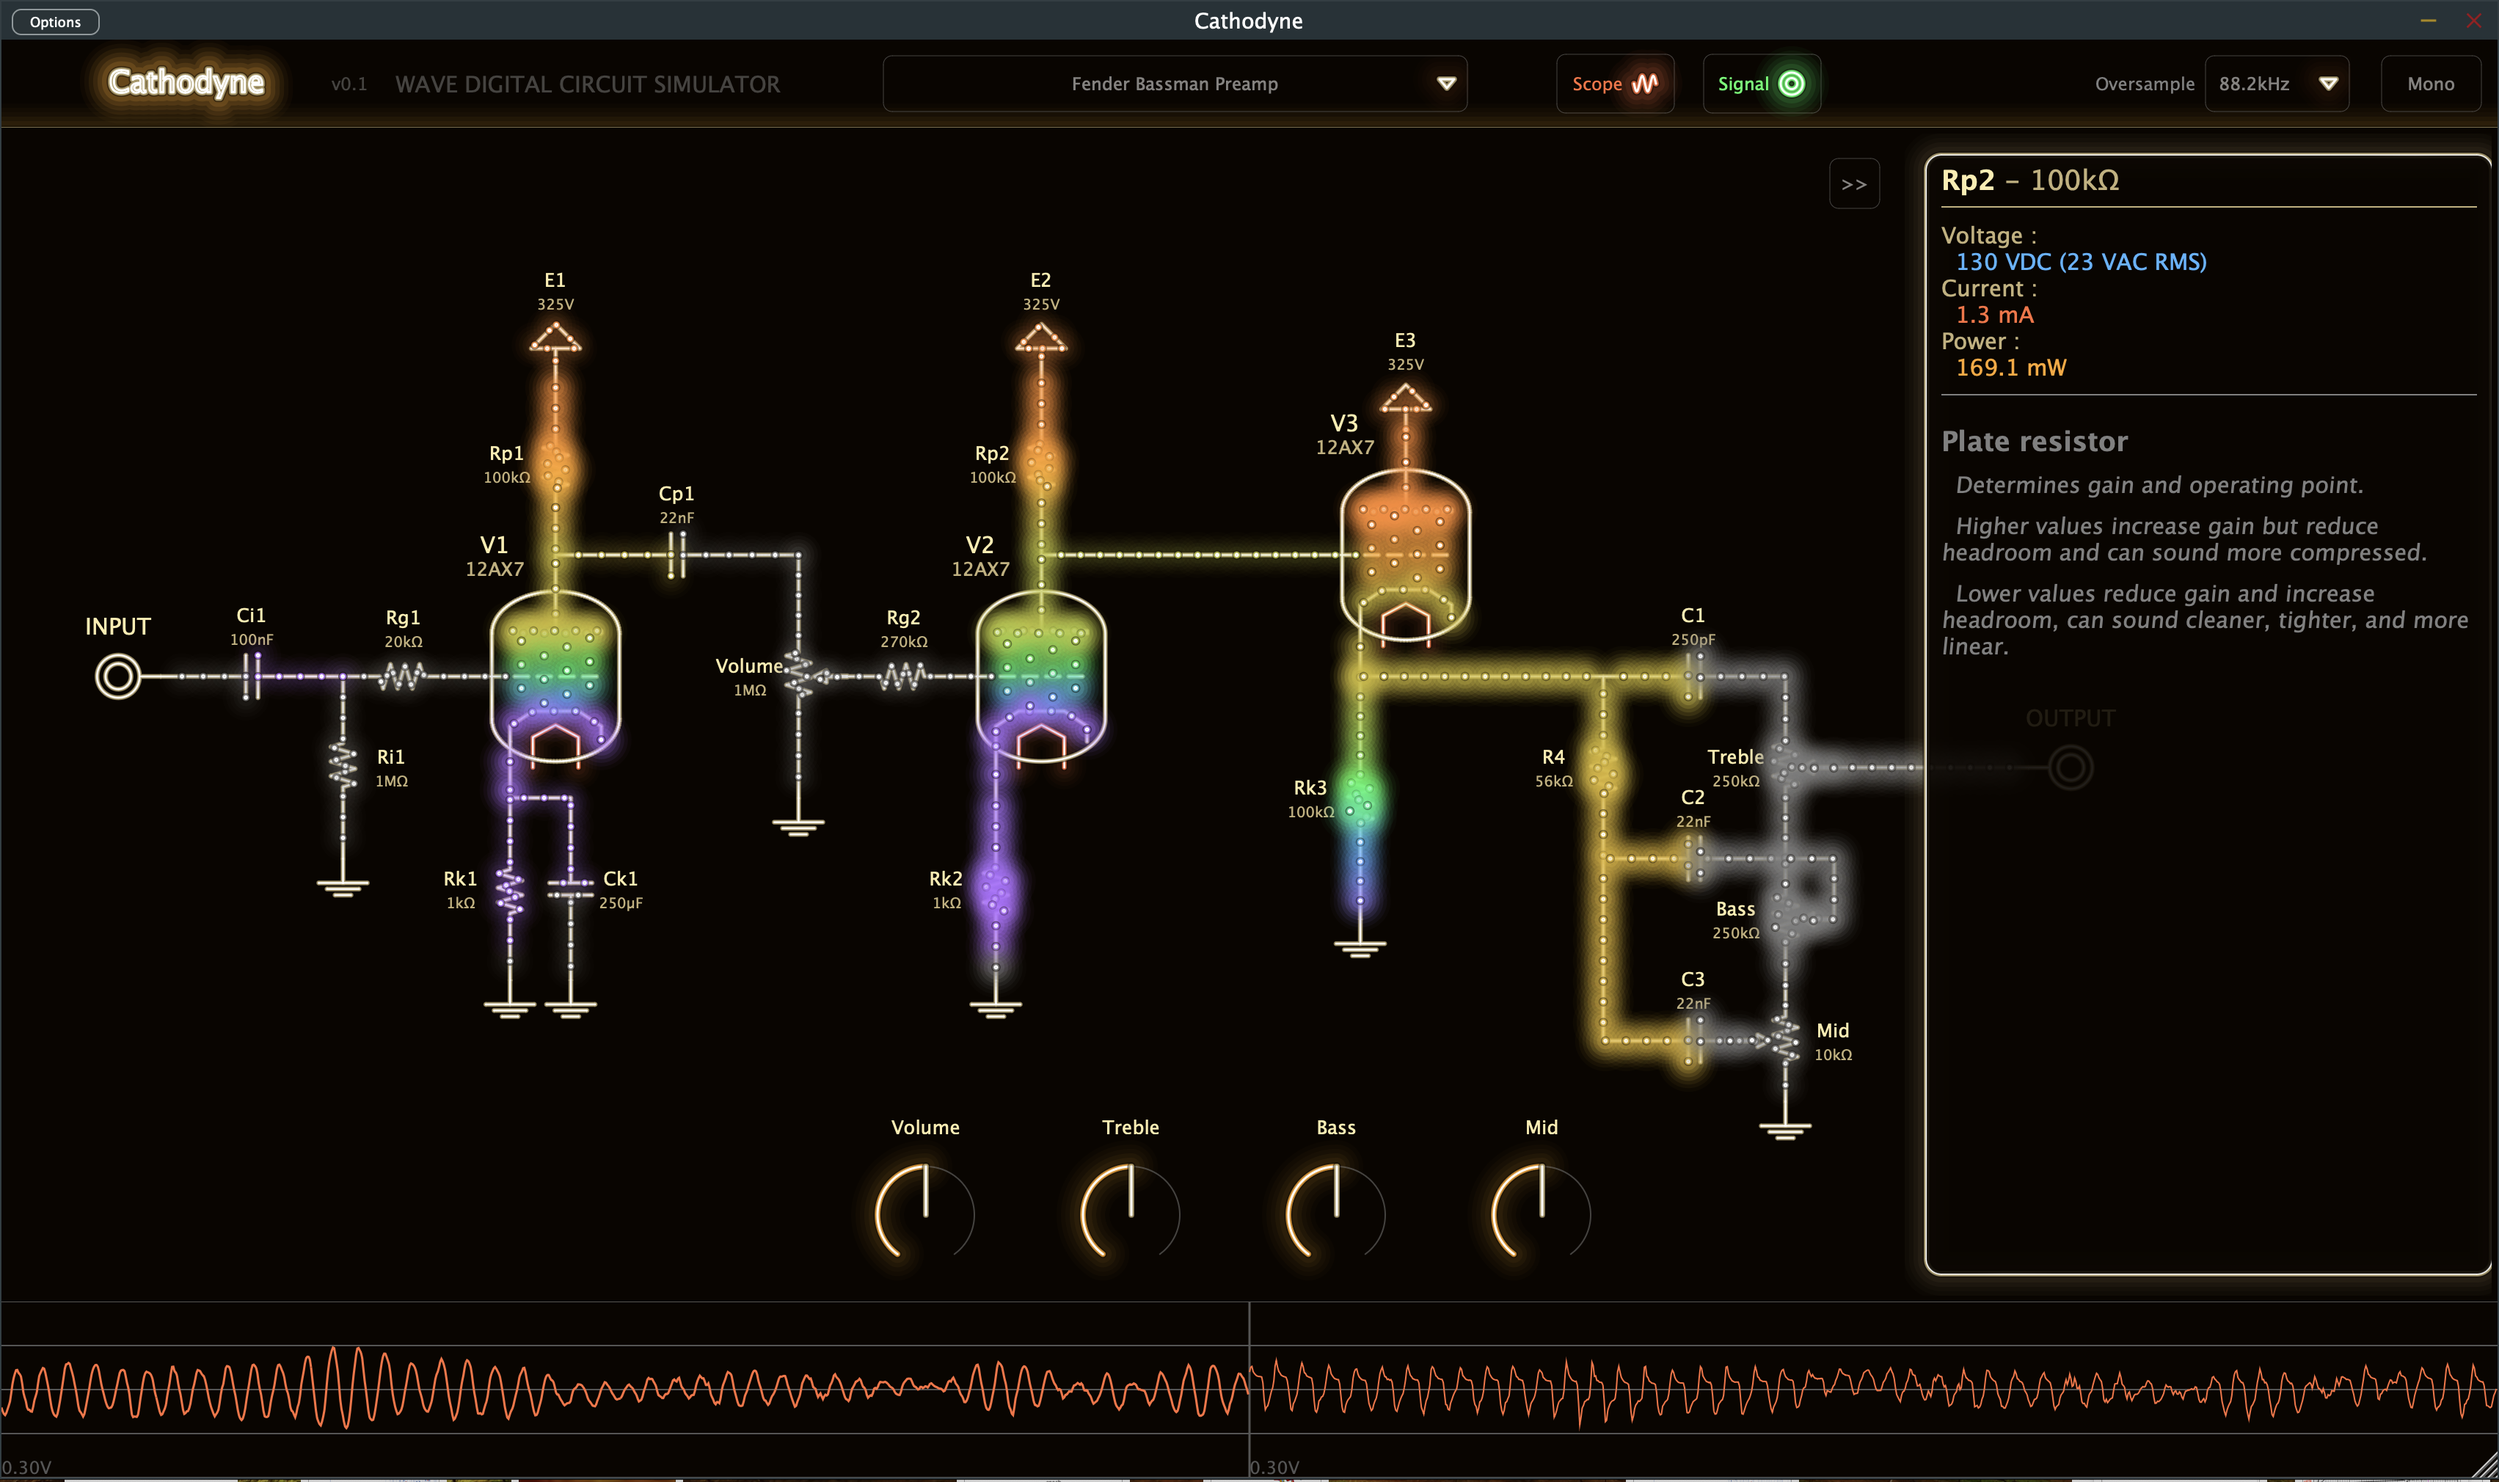
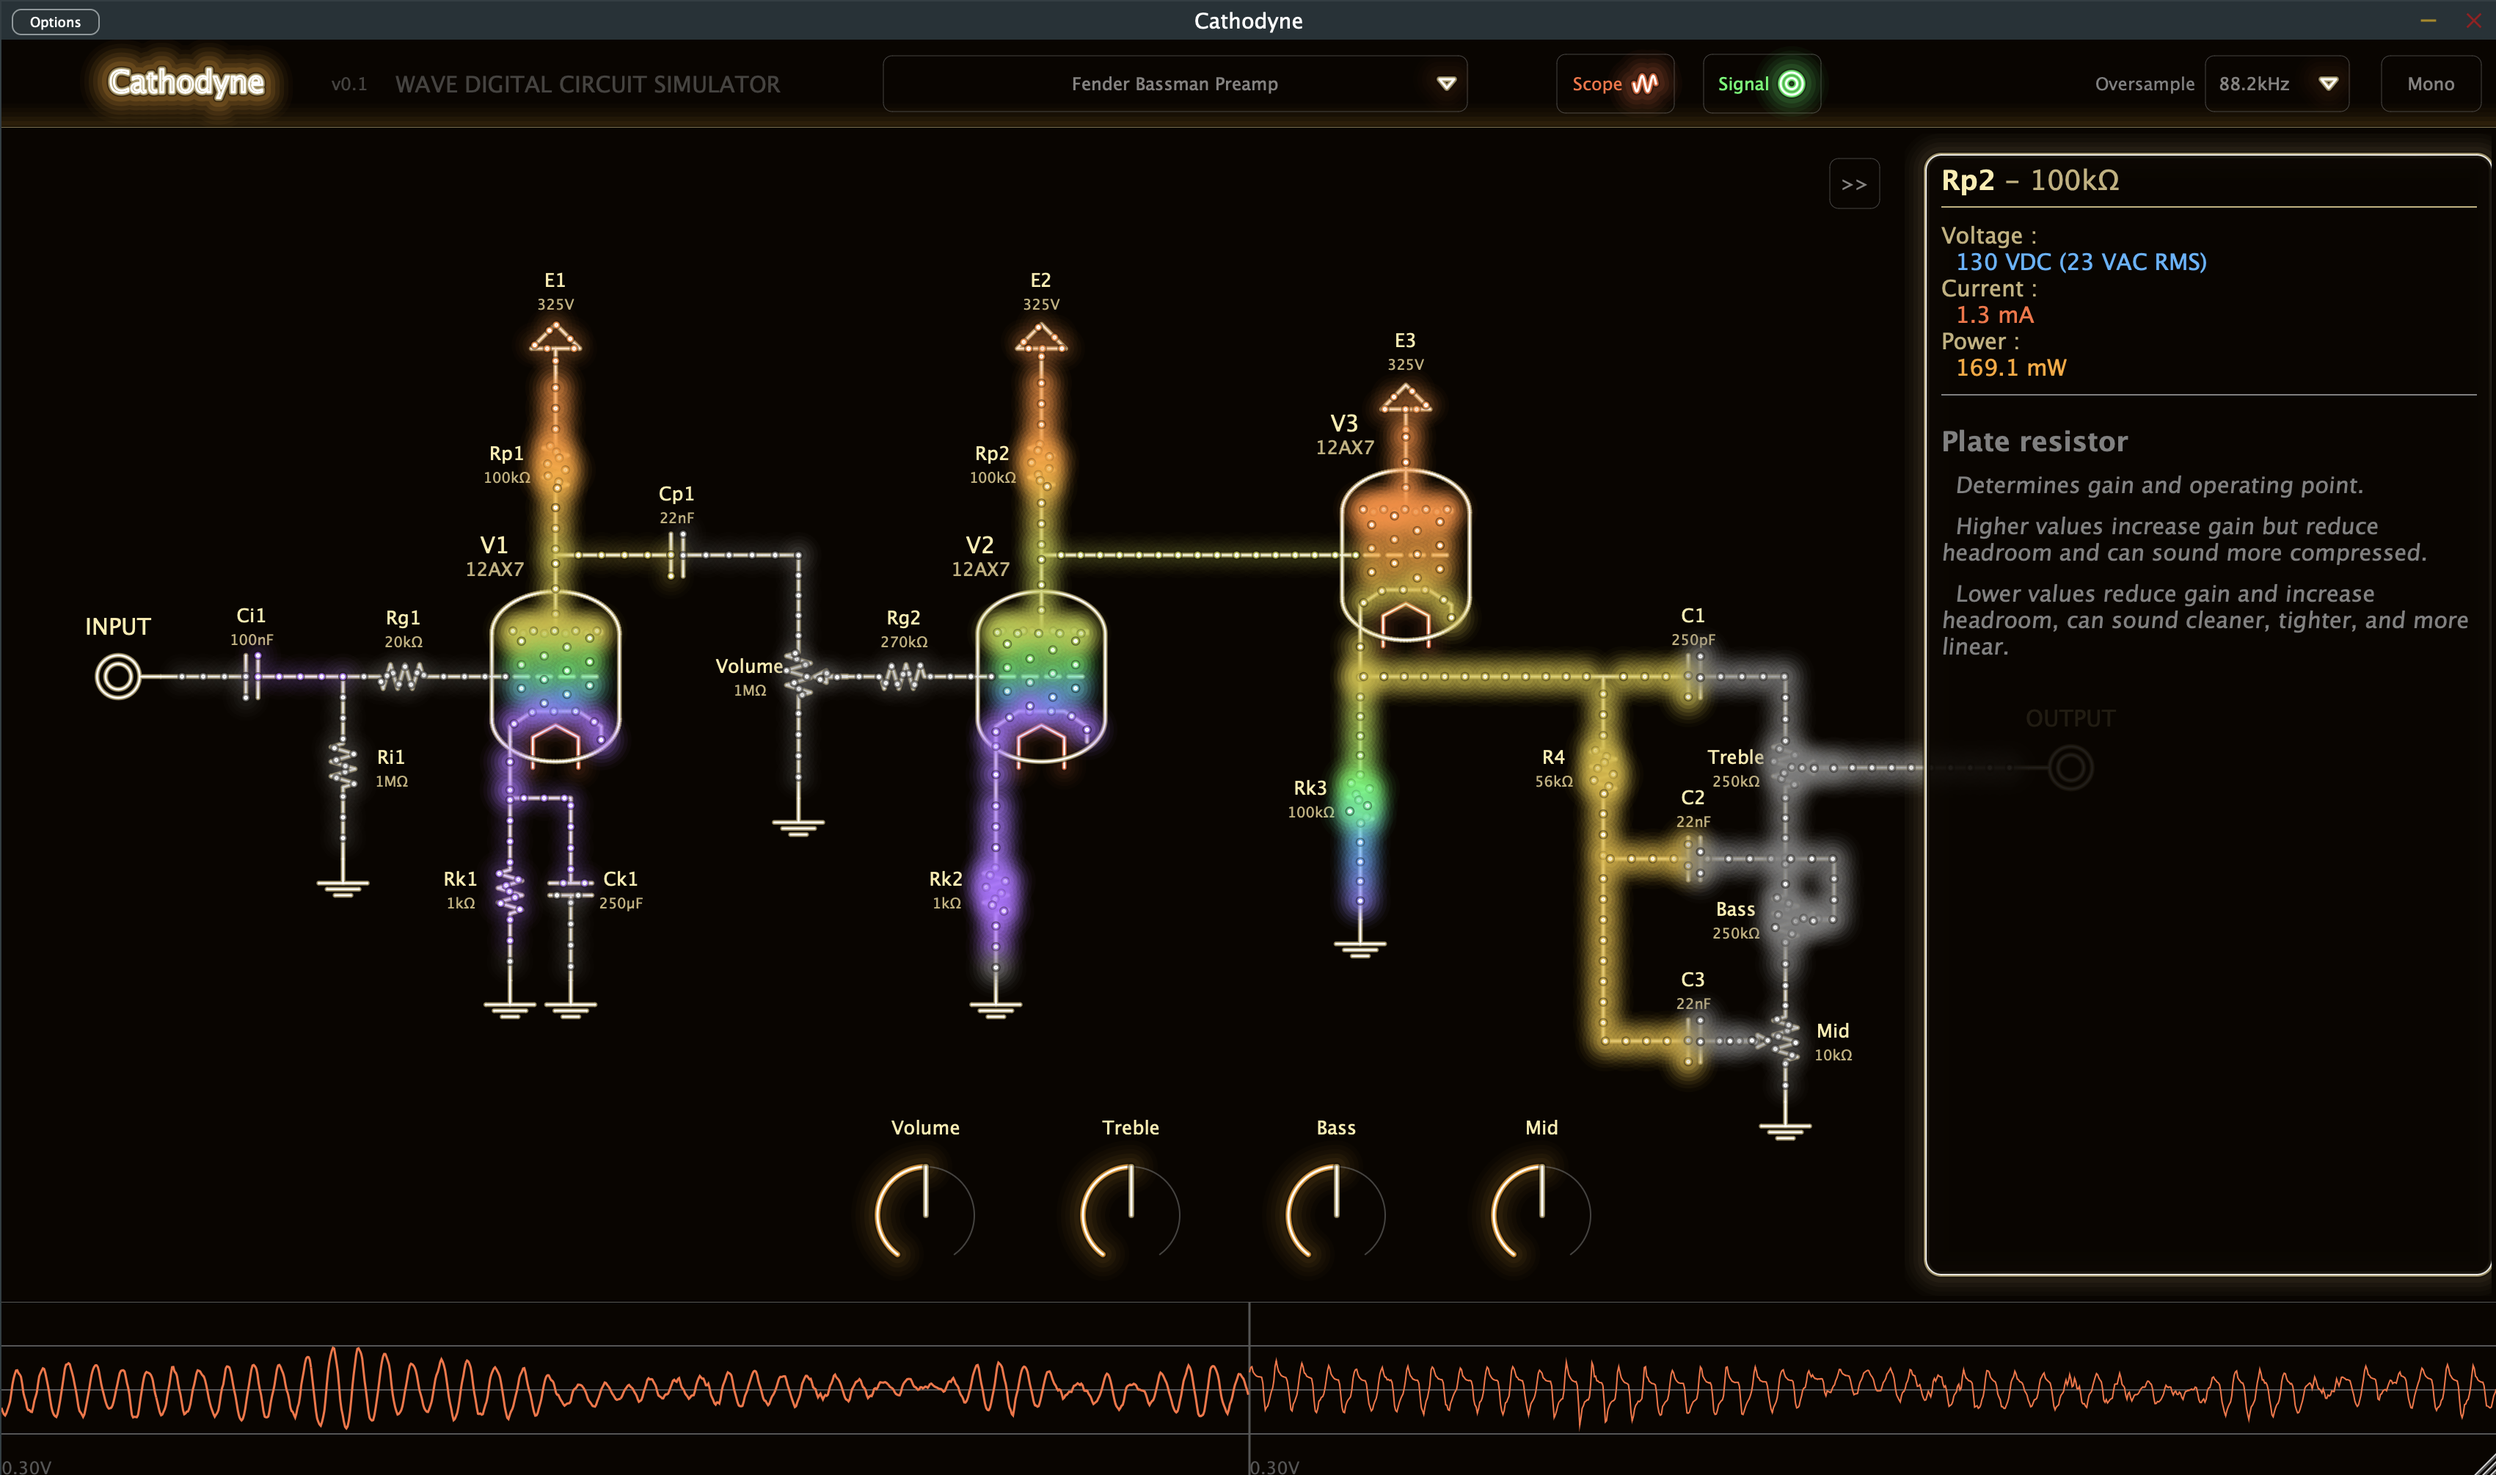
update readme

diff --git a/README.md b/README.md
@@ -19,6 +19,6 @@ It simulates the voltages and currents flowing through the individual components
 
 This project builds upon some great open-source tools, thanks a lot to them! 
 
-- chowdsp_wdf
-- JUCE framework
+- [ChowDSP WDF](https://github.com/Chowdhury-DSP/chowdsp_wdf) library
+- [JUCE](https://github.com/juce-framework/JUCE) framework
 
